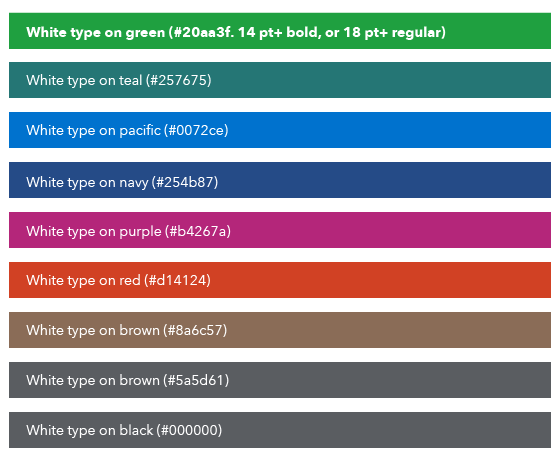
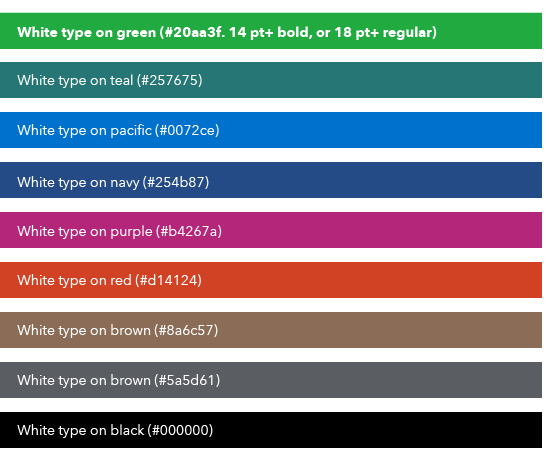
Update "typography" page

diff --git a/docs/pages/typography.md b/docs/pages/typography.md
@@ -159,7 +159,7 @@ accessibility: >-
   Black type is accessible on all brand colors with 20% saturation or below when using at least 14pt type. A few colors allow for slightly darker saturations while still maintaining accessibility. If you're looking to use a combination not listed here, check [WebAIM Contrast Checker](https://webaim.org/resources/contrastchecker/)  to verify accessibility.
 
 
-  ![Chart showing accessible combinations of black type on brand colors with 20% saturation or below.](/design-system/images/uploads/black_type.png)
+  ![Chart showing accessible combinations of black type on brand colors with 20% saturation or below.](/design-system/images/uploads/black_type_revised.png)
 
 
   #### White type on colored backgrounds
@@ -167,9 +167,10 @@ accessibility: >-
 
   White type is accessible on CFPB brand colors at 100% saturation and their darker shades when using at least 14pt type, with the following two exceptions: 
 
-  - White type is accessible on CFPB green at 100% saturation and its darker shades *only* when using at least 14pt bold type. Alternatively, use at least 18pt regular type.  
 
-  - White type is not accessible on any CFPB shade of gold
+  * White type is accessible on CFPB green at 100% saturation and its darker shades *only* when using at least 14pt bold type. Alternatively, use at least 18pt regular type.  
+
+  * White type is not accessible on any CFPB shade of gold.
 
 
   The graphic below shows accessible combinations of white type on CFPB brand colors at 100% saturation. Hex values for those colors are shown in parentheses. 
